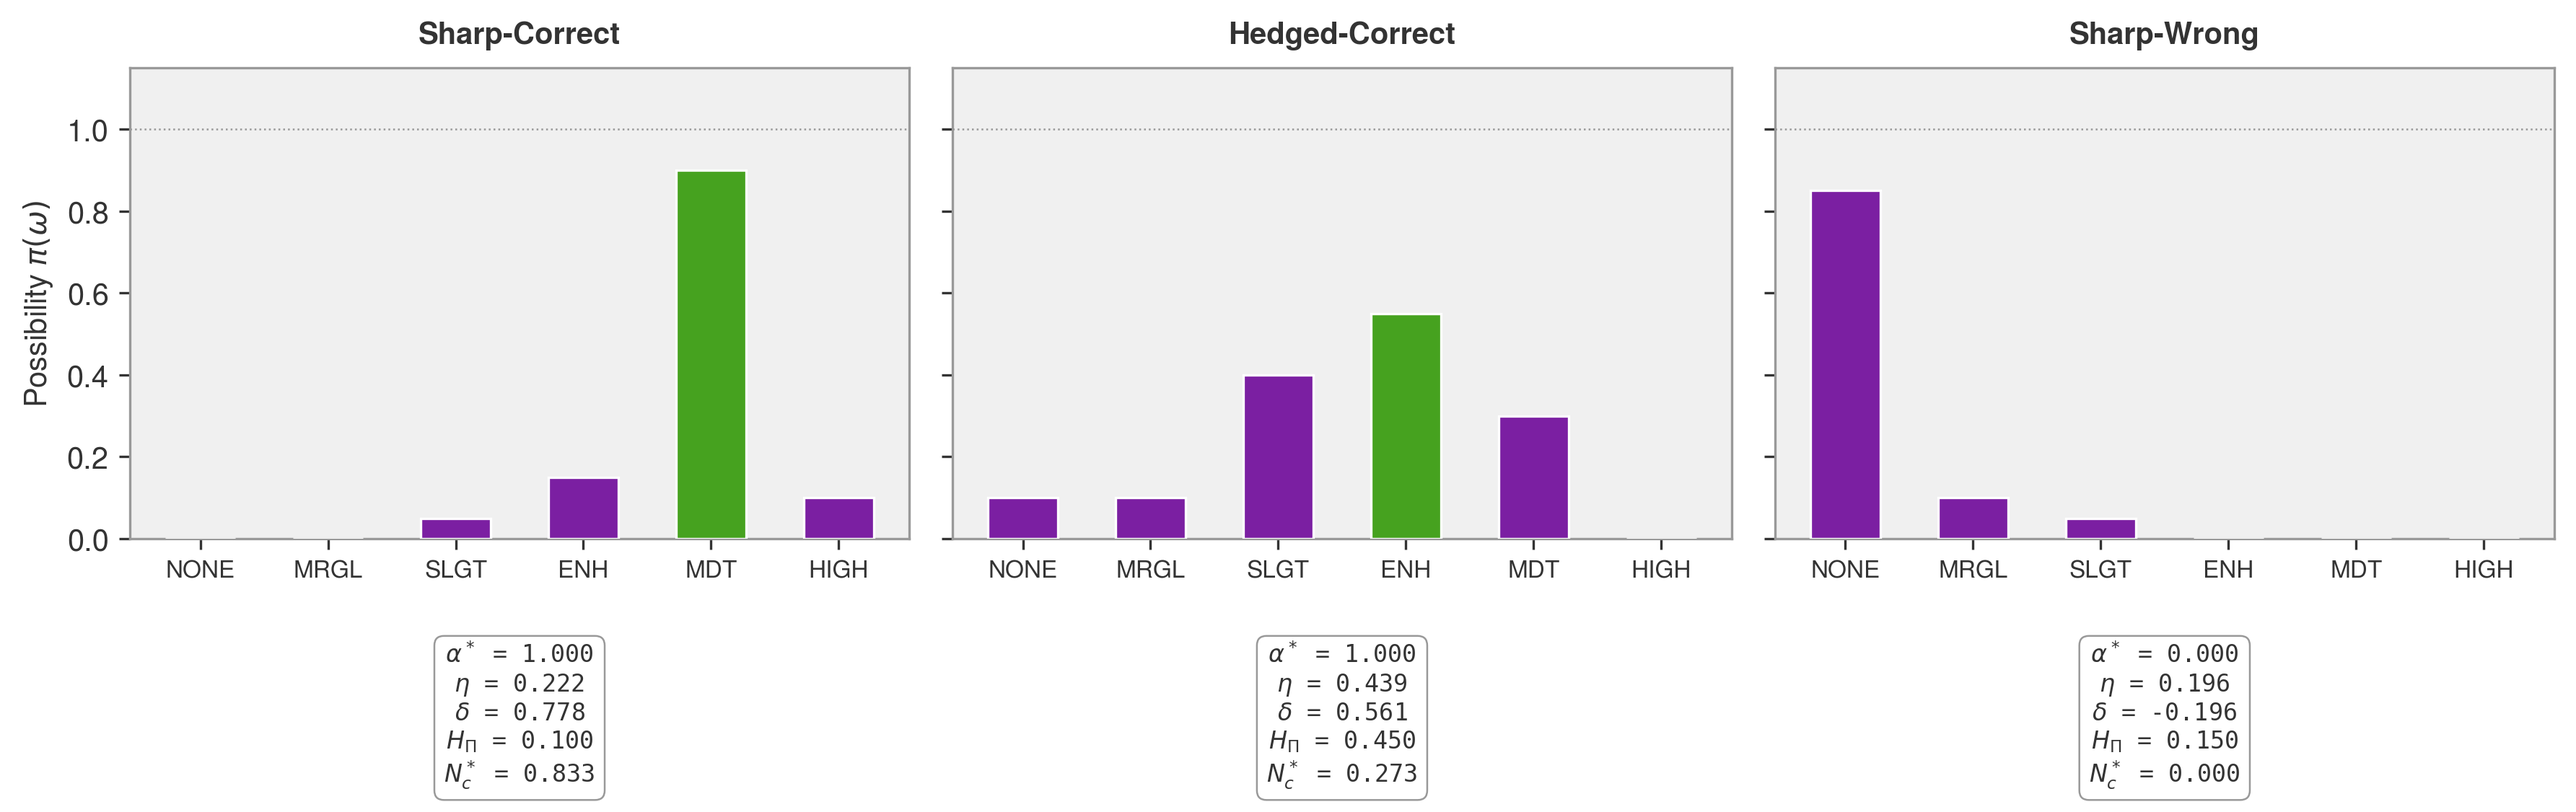
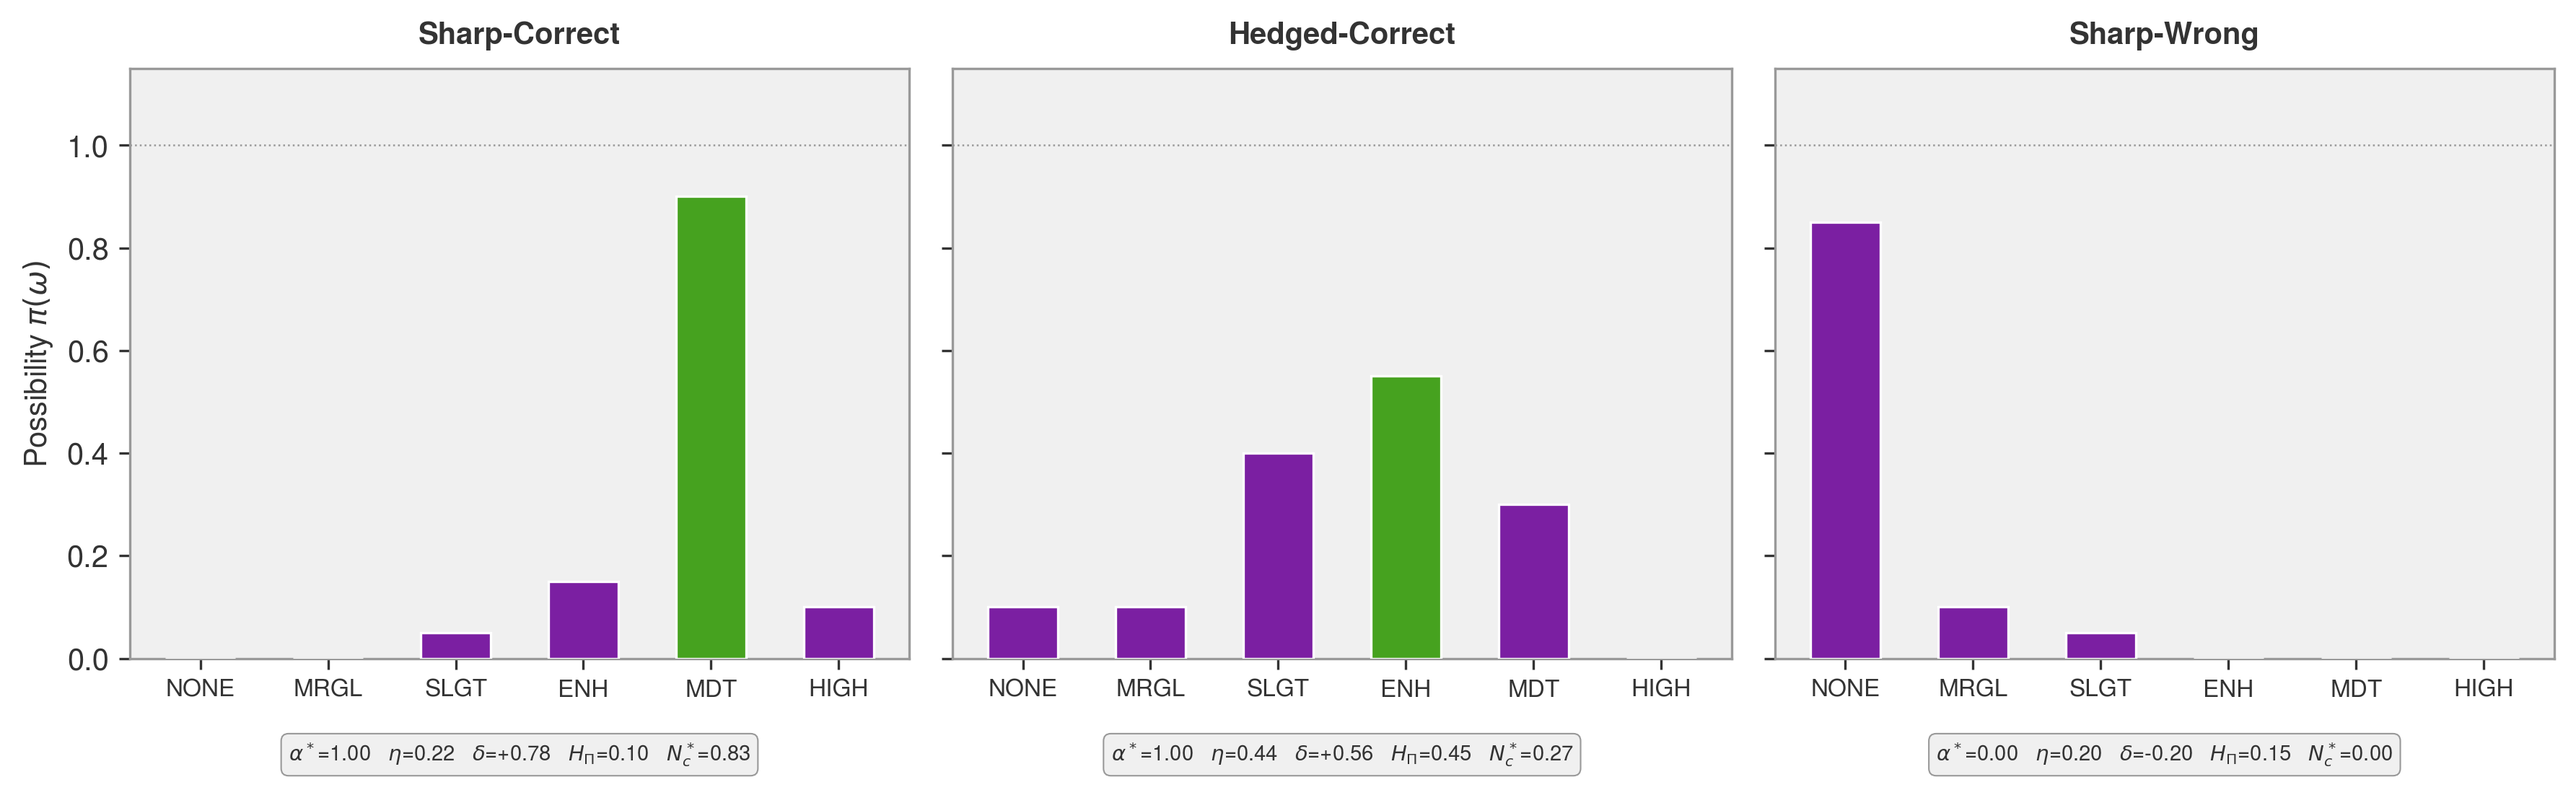
Horizontal scorecard strip under three-scenario panels, 2dp
Replace vertical descending text box with a single-line horizontal
strip showing all five scorecard values at two decimal places.

diff --git a/scripts/fig_three_scenario.py b/scripts/fig_three_scenario.py
@@ -78,7 +78,7 @@ def compute_scorecard(pi, obs_category):
 def main():
     apply_style()
 
-    fig, axes = plt.subplots(1, 3, figsize=(12.0, 4.5), sharey=True)
+    fig, axes = plt.subplots(1, 3, figsize=(12.0, 4.0), sharey=True)
     x = np.arange(SPC_N)
     bar_width = 0.55
 
@@ -104,26 +104,27 @@ def main():
         # Compute scorecard
         sc = compute_scorecard(pi, obs)
 
-        # Build scorecard text
-        lines = (
-            r"$\alpha^*$" + f" = {sc['alpha_star']:.3f}\n"
-            r"$\eta$" + f" = {sc['eta']:.3f}\n"
-            r"$\delta$" + f" = {sc['delta']:.3f}\n"
-            r"$H_\Pi$" + f" = {sc['H_Pi']:.3f}\n"
-            r"$N_c^*$" + f" = {sc['Nc_star']:.3f}"
-        )
+        # Horizontal scorecard strip below x-axis
+        labels = [r"$\alpha^*$", r"$\eta$", r"$\delta$",
+                  r"$H_\Pi$", r"$N_c^*$"]
+        vals = [sc['alpha_star'], sc['eta'], sc['delta'],
+                sc['H_Pi'], sc['Nc_star']]
+        parts = [f"{lb}={v:+.2f}" if k == "delta"
+                 else f"{lb}={v:.2f}"
+                 for lb, v, k in zip(labels, vals,
+                     ['alpha_star', 'eta', 'delta', 'H_Pi', 'Nc_star'])]
+        strip = "   ".join(parts)
 
         ax.text(
-            0.50, -0.22, lines, transform=ax.transAxes,
-            fontsize=8, va="top", ha="center",
-            bbox=dict(boxstyle="round,pad=0.4", facecolor="white",
-                      edgecolor=MID_GREY, linewidth=0.6),
-            family="monospace",
+            0.50, -0.14, strip, transform=ax.transAxes,
+            fontsize=7, va="top", ha="center",
+            bbox=dict(boxstyle="round,pad=0.35", facecolor=LIGHT_GREY,
+                      edgecolor=MID_GREY, linewidth=0.5),
         )
 
     axes[0].set_ylabel(r"Possibility $\pi(\omega)$")
 
-    fig.tight_layout(rect=[0, 0.08, 1, 1])
+    fig.tight_layout(rect=[0, 0.05, 1, 1])
     save_fig(fig, "three_scenario")
 
 
